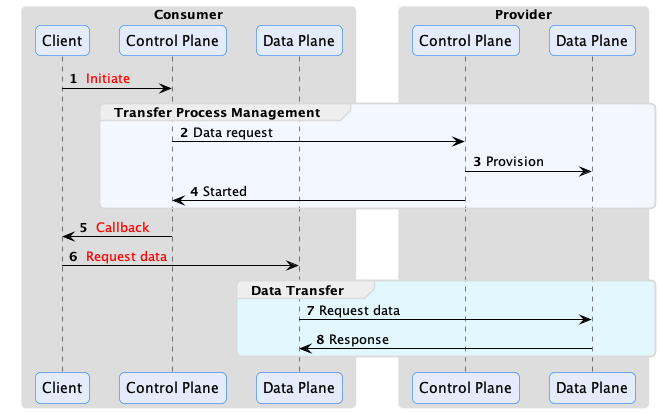
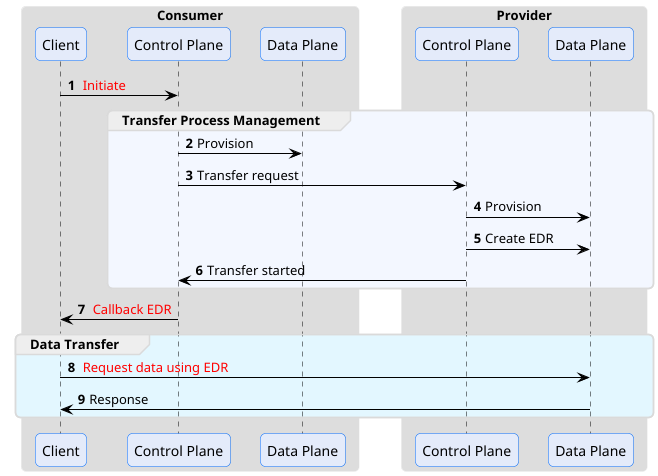
docs: actualize transfer PUSH and PULL diagrams

diff --git a/content/en/documentation/for-adopters/control-plane/_index.md b/content/en/documentation/for-adopters/control-plane/_index.md
@@ -18,7 +18,9 @@ weight: 30
     * [Working with Asynchronous Messaging and Events](#working-with-asynchronous-messaging-and-events)
     * [Reliable Messaging](#reliable-messaging)
   * [Transfer Processes](#transfer-processes)
-    * [Consumer Pull and Provider Push Transfers](#consumer-pull-and-provider-push-transfers)
+    * [Flow Types](#flow-types)
+      * [Consumer Pull](#consumer-pull)
+      * [Provider Push](#provider-push)
       * [The Role of the Data Plane](#the-role-of-the-data-plane)
     * [Transfer Process States](#transfer-process-states)
     * [Policy Monitor](#policy-monitor)
@@ -318,6 +320,7 @@ The control plane first retrieves contract definitions and evaluates their acces
 ### Designing for Optimal Catalog Performance
 
 Careful consideration needs to be taken when designing contract definitions, particularly the level of granularity at which they operate. When a catalog request is made, The access and contract policies of all contract definitions are evaluated, and the passing ones are selected. The asset selector queries are then run from the resulting set. To optimize catalog generation, contract definitions should select groups of assets rather than correspond in a 1:1 relationship with an asset. In other words, limit contract definitions to a reasonable number and use them as a mechanism to filter groups of assets. Adding custom asset properties that serve as selection labels is an easy way to do this.
+
 ## Contract Negotiations
 
 Once a consumer has received a catalog, it can request access to a dataset by sending a DSP contract negotiation request using the Management API. The contract negotiation takes the dataset offer as a parameter. When the request is received, the provider will respond with an acknowledgment. ***Contract negotiations are asynchronous, which means they are not completed immediately but sometime in the future.***  A contract negotiation progresses through a series of states defined by the DSP specification (which we will not cover). Both the consumer and provider can transition the negotiation. When a transition is attempted, the initiating control plane sends a DSP message to the counterparty.
@@ -364,28 +367,37 @@ EDC implements reliable messaging for all interactions, so it is important to un
 
 ## Transfer Processes
 
-After a contract negotiation has been finalized, a consumer can request data associated with an asset by opening a *transfer process* via the Management API. A *finite* transfer process completes after the data, such as a file, has been transferred. Other types of data transfers, such as a data stream or access to an API endpoint, may be ongoing. These types of transfer processes are termed *non-finite* because there is no specified completion point. They continue until they are explicitly terminated or canceled.
+After a Contract Negotiation has been finalized, a consumer can request data associated with an asset by initiating a *Transfer Process* via the Management API.
+
+A *finite* transfer process completes after the data, such as a file, has been transferred. Other types of data transfers, such as a data stream or access to an API endpoint, may be ongoing. These types of transfer processes are termed *non-finite* because there is no specified completion point. They continue until they are explicitly terminated or canceled.
 
 ![Transfer Types](transfer-types.svg)
 
-> Pay careful attention to how data is modeled. In particular, model your assets in a way that minimizes the number of contract negotiations and transfer processes that need to be created. For large data sets such as machine-learning data, this is relatively straightforward: an asset can represent each individual data set. Consumers will typically need to transfer the data once or infrequently, so the number of contract negotiations and transfer processes will remain small, typically one contract negotiation and a few transfers.
+> Pay careful attention to how data is modeled. In particular, model your assets in a way that minimizes the number of Contract Negotiations and Transfer Processes that need to be created. For large data sets such as machine-learning data, this is relatively straightforward: an asset can represent individual data set. Consumers will typically need to transfer the data once or infrequently, so the number of Contract Negotiations and Transfer Processes will remain small, typically one Contract Negotiation and a few transfers.
 >
->Now, let's take as an example a supplier that wishes to expose parts data to their partners. Do not model each part as a separate asset, as that would require at least one contract negotiation and transfer process per part. If there are millions of parts, the number of contract negotiations and transfer processes will quickly grow out of control. Instead, have a single asset represent aggregate data, such as all parts, or a significant subset, such as a part type. Only one contract negotiation will be needed, and if the transfer process is non-finite and kept open, consumers can make multiple parts data requests (over the course of hours, days, months, etc.) without incurring additional overhead.
+> Now, let's take as an example a supplier that wishes to expose parts data to their partners. Do not model each part as a separate asset, as that would require at least one contract negotiation and transfer process per part. If there are millions of parts, the number of contract negotiations and transfer processes will quickly grow out of control. Instead, having a single asset represents aggregate data, such as all parts, or a significant subset, such as a part type. Only one Contract Negotiation will be needed, and if the Transfer Process is non-finite and kept open, consumers can make multiple parts data requests (over the course of hours, days, months, etc.) without incurring additional overhead.
 
-### Consumer Pull and Provider Push Transfers
+### Flow Types
 
-We'll explain how to open a transfer process in the next section. First, it is important to understand the two modes for sending data from a provider to a consumer that EDC supports. Consumer pull transfers require the consumer to initiate the data send operation. A common example of this is when a consumer makes an HTTP request to an endpoint and receives a response or pulls a message off a queue:
+We'll explain how to open a Transfer Process in the next section. First, it is important to understand the two modes for sending data from a provider to a consumer that EDC supports. 
+
+#### Consumer Pull
+
+It requires the consumer to initiate the data flow operation. A common example of this is when a consumer makes an HTTP request to an endpoint and receives a response or pulls a message off a queue:
 
 ![consumer-pull](consumer-pull.png)
 
-The second type, provider push transfers, involves the provider pushing data to the consumer:
+The EDR (Endpoint Data Reference) contains all the coordinates to reach the provider public endpoint where the data can be fetched. In the basic case, it is an HTTP endpoint, but it could be a message broker, an object storage and so on.
+
+#### Provider Push
+
+It requires the provider to actively push data to the consumer.
 
 ![provider-push](provider-push.png)
 
-An example of the latter is when a consumer wishes to receive a dataset at an object storage endpoint that it controls. This data may take the provider some time to create and process, so the consumer sends an access token to the provider when it opens a transfer process, which the provider then uses to push the data to the consumer when it is ready.
-#### The Role of the Data Plane
-
-Once a transfer process is initiated on the control planes of the consumer and provider, the respective data planes handle data send and receive operations. In the provider push scenario, the consumer control plane will signal to its data plane to be ready to receive data at an endpoint. The provider control plane will then signal to its data plane to begin the push operation. In the consumer pull scenario, the provider control plane will first signal to its data plane to make data available at an endpoint. The consumer control plane will then signal to its control plane to begin pulling the data from the provider endpoint.
+Note that, on the consumer side, the data plane role is to prepare the destination endpoint. \
+An example of provider push is when a consumer wishes to receive a dataset at an object storage endpoint that it controls. \
+Since the provider may need time to prepare the data, the consumer sends an access token when initiating a Transfer Process. The provider uses this token to push the data once it is ready.
 
 ### Transfer Process States
 
